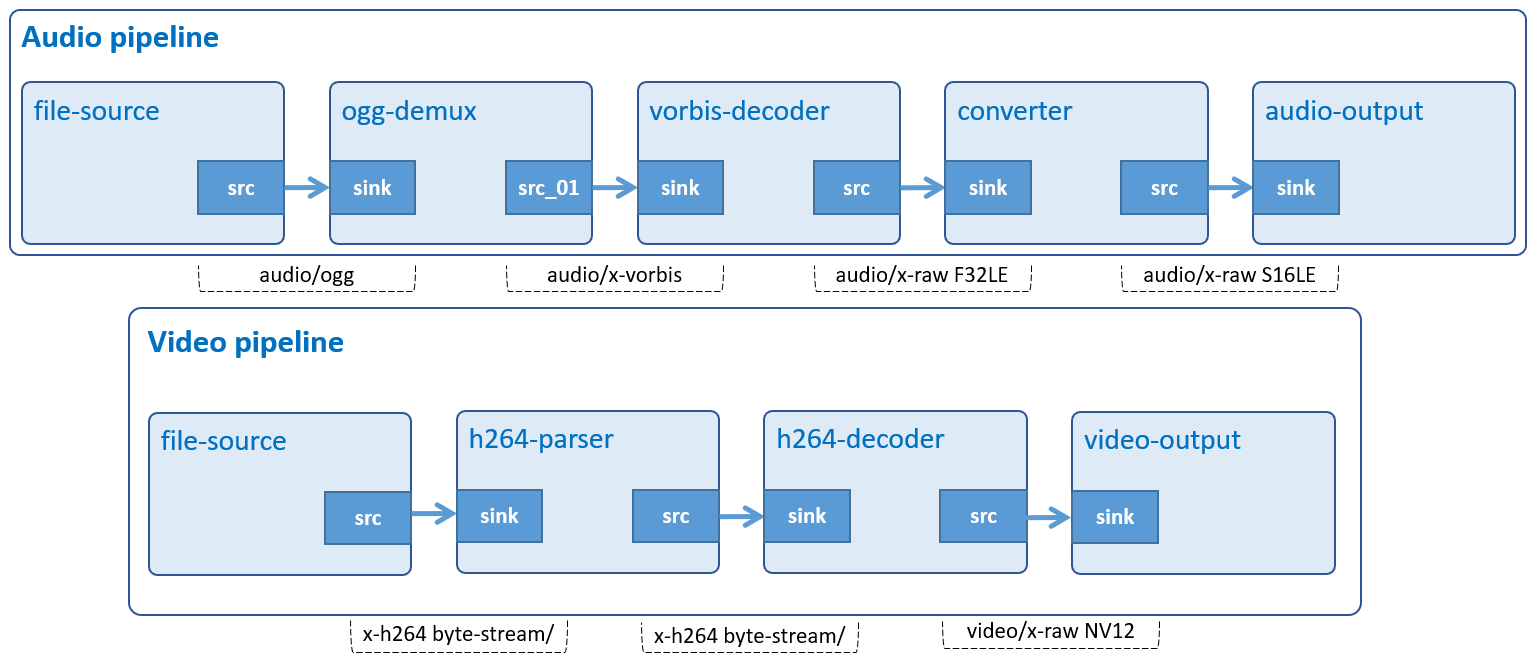
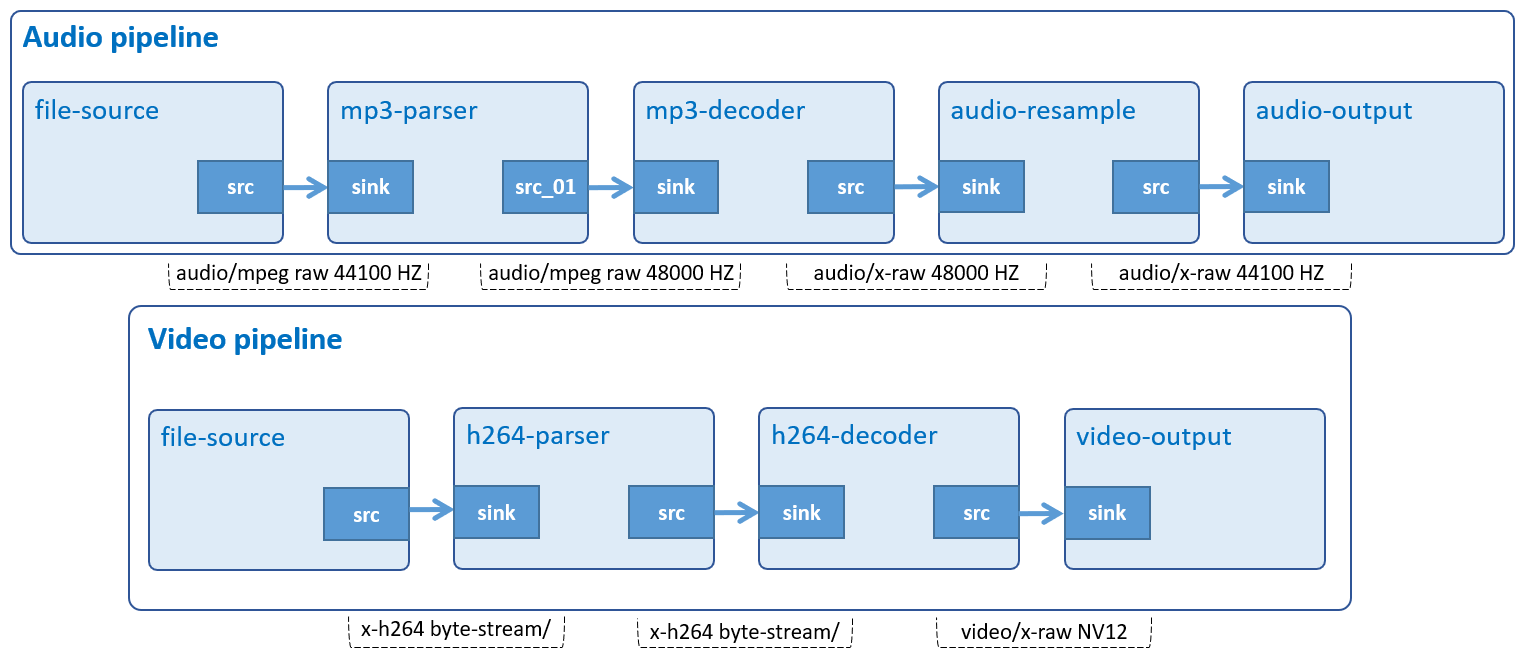
13_gst-audiovideoplay: Switching from playing Ogg/Vorbis files to MP3 files

diff --git a/13_gst-audiovideoplay/main.c b/13_gst-audiovideoplay/main.c
@@ -6,11 +6,11 @@
 #include <string.h>
 #include <libgen.h>
 
-#define FORMAT           "S16LE"
-#define ARG_PROGRAM_NAME 0
-#define ARG_INPUT_AUDIO  1
-#define ARG_INPUT_VIDEO  2
-#define ARG_COUNT        3
+#define AUDIO_SAMPLE_RATE 44100
+#define ARG_PROGRAM_NAME  0
+#define ARG_INPUT_AUDIO   1
+#define ARG_INPUT_VIDEO   2
+#define ARG_COUNT         3
 
 typedef struct _CustomData
 {
@@ -358,43 +358,29 @@ bus_call (GstBus * bus, GstMessage * msg, gpointer data)
   return TRUE;
 }
 
-static void
-on_pad_added (GstElement * element, GstPad * pad, gpointer data)
-{
-  GstPad *sinkpad;
-  GstElement *decoder = (GstElement *) data;
-
-  /* We can now link this pad with the vorbis-decoder sink pad */
-  g_print ("Dynamic pad created, linking demuxer/decoder\n");
-
-  sinkpad = gst_element_get_static_pad (decoder, "sink");
-
-  gst_pad_link (pad, sinkpad);
-
-  gst_object_unref (sinkpad);
-}
-
 guint
 create_audio_pipeline (GstElement ** p_audio_pipeline,
     const gchar * input_file, CustomData * data)
 {
   GstBus *bus;
   guint audio_bus_watch_id;
-  GstElement *audio_source, *audio_demuxer, *audio_decoder, *audio_converter,
+  GstElement *audio_source, *audio_parser, *audio_decoder, *audio_resample,
       *audio_capsfilter, *audio_sink;
   GstCaps *capsfilter;
 
   /* Create GStreamer elements for audio play */
   *p_audio_pipeline = gst_pipeline_new ("audio-play");
   audio_source = gst_element_factory_make ("filesrc", "audio-file-source");
-  audio_demuxer = gst_element_factory_make ("oggdemux", "ogg-demuxer");
-  audio_decoder = gst_element_factory_make ("vorbisdec", "vorbis-decoder");
-  audio_converter = gst_element_factory_make ("audioconvert", "converter");
-  audio_capsfilter = gst_element_factory_make ("capsfilter", "convert_caps");
+  audio_parser = gst_element_factory_make ("mpegaudioparse", "mp3-parser");
+  audio_decoder = gst_element_factory_make ("mpg123audiodec", "mp3-decoder");
+  audio_resample = gst_element_factory_make ("audioresample",
+                       "audio-resample");
+  audio_capsfilter = gst_element_factory_make ("capsfilter",
+                         "resample_capsfilter");
   audio_sink = gst_element_factory_make ("alsasink", "audio-output");
 
-  if (!*p_audio_pipeline || !audio_source || !audio_demuxer || !audio_decoder
-      || !audio_converter || !audio_capsfilter || !audio_sink) {
+  if (!*p_audio_pipeline || !audio_source || !audio_parser || !audio_decoder
+      || !audio_resample || !audio_capsfilter || !audio_sink) {
     g_printerr ("One audio element could not be created. Exiting.\n");
     return 0;
   }
@@ -405,10 +391,10 @@ create_audio_pipeline (GstElement ** p_audio_pipeline,
   gst_object_unref (bus);
 
   /* Add all elements into the audio pipeline */
-  /* file-source | ogg-demuxer | vorbis-decoder | converter | capsfilter |
+  /* file-source | mp3-parser | mp3-decoder | audioresample | capsfilter |
    * alsa-output */
   gst_bin_add_many (GST_BIN (*p_audio_pipeline),
-      audio_source, audio_demuxer, audio_decoder, audio_converter,
+      audio_source, audio_parser, audio_decoder, audio_resample,
       audio_capsfilter, audio_sink, NULL);
 
   /* Set up for the audio pipeline */
@@ -416,30 +402,20 @@ create_audio_pipeline (GstElement ** p_audio_pipeline,
   g_object_set (G_OBJECT (audio_source), "location", input_file, NULL);
 
   /* we set the caps option to the caps-filter element */
-  capsfilter =
-      gst_caps_new_simple ("audio/x-raw", "format", G_TYPE_STRING, FORMAT,
-      NULL);
+  capsfilter = gst_caps_new_simple ("audio/x-raw", "rate", G_TYPE_INT,
+                   AUDIO_SAMPLE_RATE, NULL);
   g_object_set (G_OBJECT (audio_capsfilter), "caps", capsfilter, NULL);
   gst_caps_unref (capsfilter);
 
   /* we link the elements together */
-  /* file-source -> ogg-demuxer ~> vorbis-decoder -> converter -> capsfilter ->
-   *  alsa-output */
-  if (!gst_element_link (audio_source, audio_demuxer)) {
+  /* file-source -> mp3-parser -> mp3-decoder -> audioresample -> capsfilter
+   * -> alsa-output */
+  if (!gst_element_link_many (audio_source, audio_parser, audio_decoder,
+          audio_resample, audio_capsfilter, audio_sink, NULL)) {
     g_printerr ("Audio elements could not be linked.\n");
     gst_object_unref (*p_audio_pipeline);
     return 0;
   }
-
-  if (!gst_element_link_many (audio_decoder, audio_converter, audio_capsfilter,
-          audio_sink, NULL)) {
-    g_printerr ("Audio elements could not be linked.\n");
-    gst_object_unref (*p_audio_pipeline);
-    return 0;
-  }
-
-  g_signal_connect (audio_demuxer, "pad-added", G_CALLBACK (on_pad_added),
-      audio_decoder);
 
   return audio_bus_watch_id;
 }
@@ -566,7 +542,7 @@ main (int argc, char *argv[])
 
   if (argc != ARG_COUNT) {
     g_printerr ("Error: Invalid arugments.\n");
-    g_printerr ("Usage: %s <OGG file> <H264 file> \n", argv[ARG_PROGRAM_NAME]);
+    g_printerr ("Usage: %s <MP3 file> <H264 file> \n", argv[ARG_PROGRAM_NAME]);
     return -1;
   }
 
@@ -603,11 +579,11 @@ main (int argc, char *argv[])
   video_ext = get_filename_ext (file_name);
 
   /* Check extension of input file */
-  if ((strcasecmp ("ogg", audio_ext) != 0)
+  if ((strcasecmp ("mp3", audio_ext) != 0)
       || ((strcasecmp ("h264", video_ext) != 0)
       && (strcasecmp ("264", video_ext) != 0))) {
     g_printerr ("Error: Unsupported input type.\n");
-    g_printerr ("OGG audio format and H264 video format are required.\n");
+    g_printerr ("MP3 audio format and H264 video format are required.\n");
     return -1;
   }
 

diff --git a/13_gst-audiovideoplay/README.md b/13_gst-audiovideoplay/README.md
@@ -1,6 +1,6 @@
 # Audio Video Play
 
-Play H.264 video and Ogg/Vorbis audio file independently.
+Play H.264 video and MP3 audio file independently.
 
 ![Figure Audio Video Play pipeline](figure.png)
 
@@ -20,11 +20,11 @@ GStreamer: 1.16.3 (edited by Renesas).
 ```c
   if (argc != ARG_COUNT){
     g_printerr ("Error: Invalid arugments.\n");
-    g_printerr ("Usage: %s <OGG file> <H264 file> \n", argv[ARG_PROGRAM_NAME]);
+    g_printerr ("Usage: %s <MP3 file> <H264 file> \n", argv[ARG_PROGRAM_NAME]);
     return -1;
   }
 ```
-This application accepts 2 command-line arguments which point to an Ogg/Vorbis file and a H.264 file.
+This application accepts 2 command-line arguments which point to an MP3 file and a H.264 file.
 
 #### CustomData structure
 ```c
@@ -52,7 +52,7 @@ shared_data.loop = g_main_loop_new (NULL, FALSE);
 ```
 This function creates a new [GMainLoop](https://docs.gtk.org/glib/main-loop.html) structure with default (NULL) context `(GMainContext)`.\
 Basically, the main event loop manages all the available sources of events. To allow multiple independent sets of sources to be handled in different threads, each source is associated with a `GMainContext`. A `GMainContext` can only be running in a single thread, but sources can be added to it and removed from it from other threads.\
-The application will use GMainLoop to catch events and signals from 2 independent GStreamer pipelines. One plays a video and the other plays an Ogg/Vorbis audio file.
+The application will use GMainLoop to catch events and signals from 2 independent GStreamer pipelines. One plays a video and the other plays an MP3 audio file.
 ```c
 shared_data.loop_reference = 0;
 ```
@@ -112,7 +112,7 @@ try_to_quit_loop ((CustomData *) data);
 create_audio_pipeline (&audio_pipeline, input_audio_file, &shared_data);
 create_video_pipeline (&video_pipeline, input_video_file, &shared_data);
 ```
-Above lines of code create 2 pipelines, one plays Ogg/Vorbis audio and the other displays MP4.
+Above lines of code create 2 pipelines, one plays MP3 audio and the other displays H.264.
 
 #### Play pipelines
 ```c
@@ -201,9 +201,10 @@ $   scp -r $WORK/13_gst-audiovideoplay/ <username>@<board IP>:/usr/share/
 ```
 ***Step 4***.	Run the application:
 
--  Download the input files `Rondo_Alla_Turka.ogg` from _Renesas/audios_ and `vga1.h264` from _Renesas/videos_ in media repository [(github.com/renesas-rz/media)](https://github.com/renesas-rz/media) then place all of them in _/home/media/audios_.
+-  Download the audio input file `renesas-bigideasforeveryspace.mp3` from _Renesas/audios_ in media repository [(github.com/renesas-rz/media)](https://github.com/renesas-rz/media) then place it in _/home/media/audios_.
+-  In the same way, download the video input file `vga1.h264` from _Renesas/videos_ in media repository [(github.com/renesas-rz/media)](https://github.com/renesas-rz/media) then place it in _/home/media/videos_.
 ```sh
-$   /usr/share/13_gst-audiovideoplay/gst-audiovideoplay /home/media/audios/Rondo_Alla_Turka.ogg /home/media/videos/vga1.h264
+$   /usr/share/13_gst-audiovideoplay/gst-audiovideoplay /home/media/audios/renesas-bigideasforeveryspace.mp3 /home/media/videos/vga1.h264
 ```
 ### Special instruction:
 To set the playback volume: please use the alsamixer or amixer tool. Reference https://en.wikipedia.org/wiki/Alsamixer

diff --git a/README.md b/README.md
@@ -46,7 +46,7 @@ The following table shows multimedia applications in RZ/G2 platform ranging from
 | [Video Scale](10_gst-videoscale) | Scale down an H.264 video, then store it in MP4 container. |
 | [Audio Player](11_gst-audioplayer) | A simple text-based MP3 audio player. |
 | [Video Player](12_gst-videoplayer) | A simple text-based MP4 video player. |
-| [Audio Video Play](13_gst-audiovideoplay) | Play H.264 video and Ogg/Vorbis audio file independently. |
+| [Audio Video Play](13_gst-audiovideoplay) | Play H.264 video and MP3 audio file independently. |
 | [File Play](14_gst-fileplay) | Play an MP4 file. |
 | [Multiple Displays 1](15_gst-multipledisplays1) | Display 1 H.264 video simultaneously on HDMI monitors. |
 | [Multiple Displays 2](16_gst-multipledisplays2) | Display 2 H.264 videos simultaneously on HDMI monitors. |
